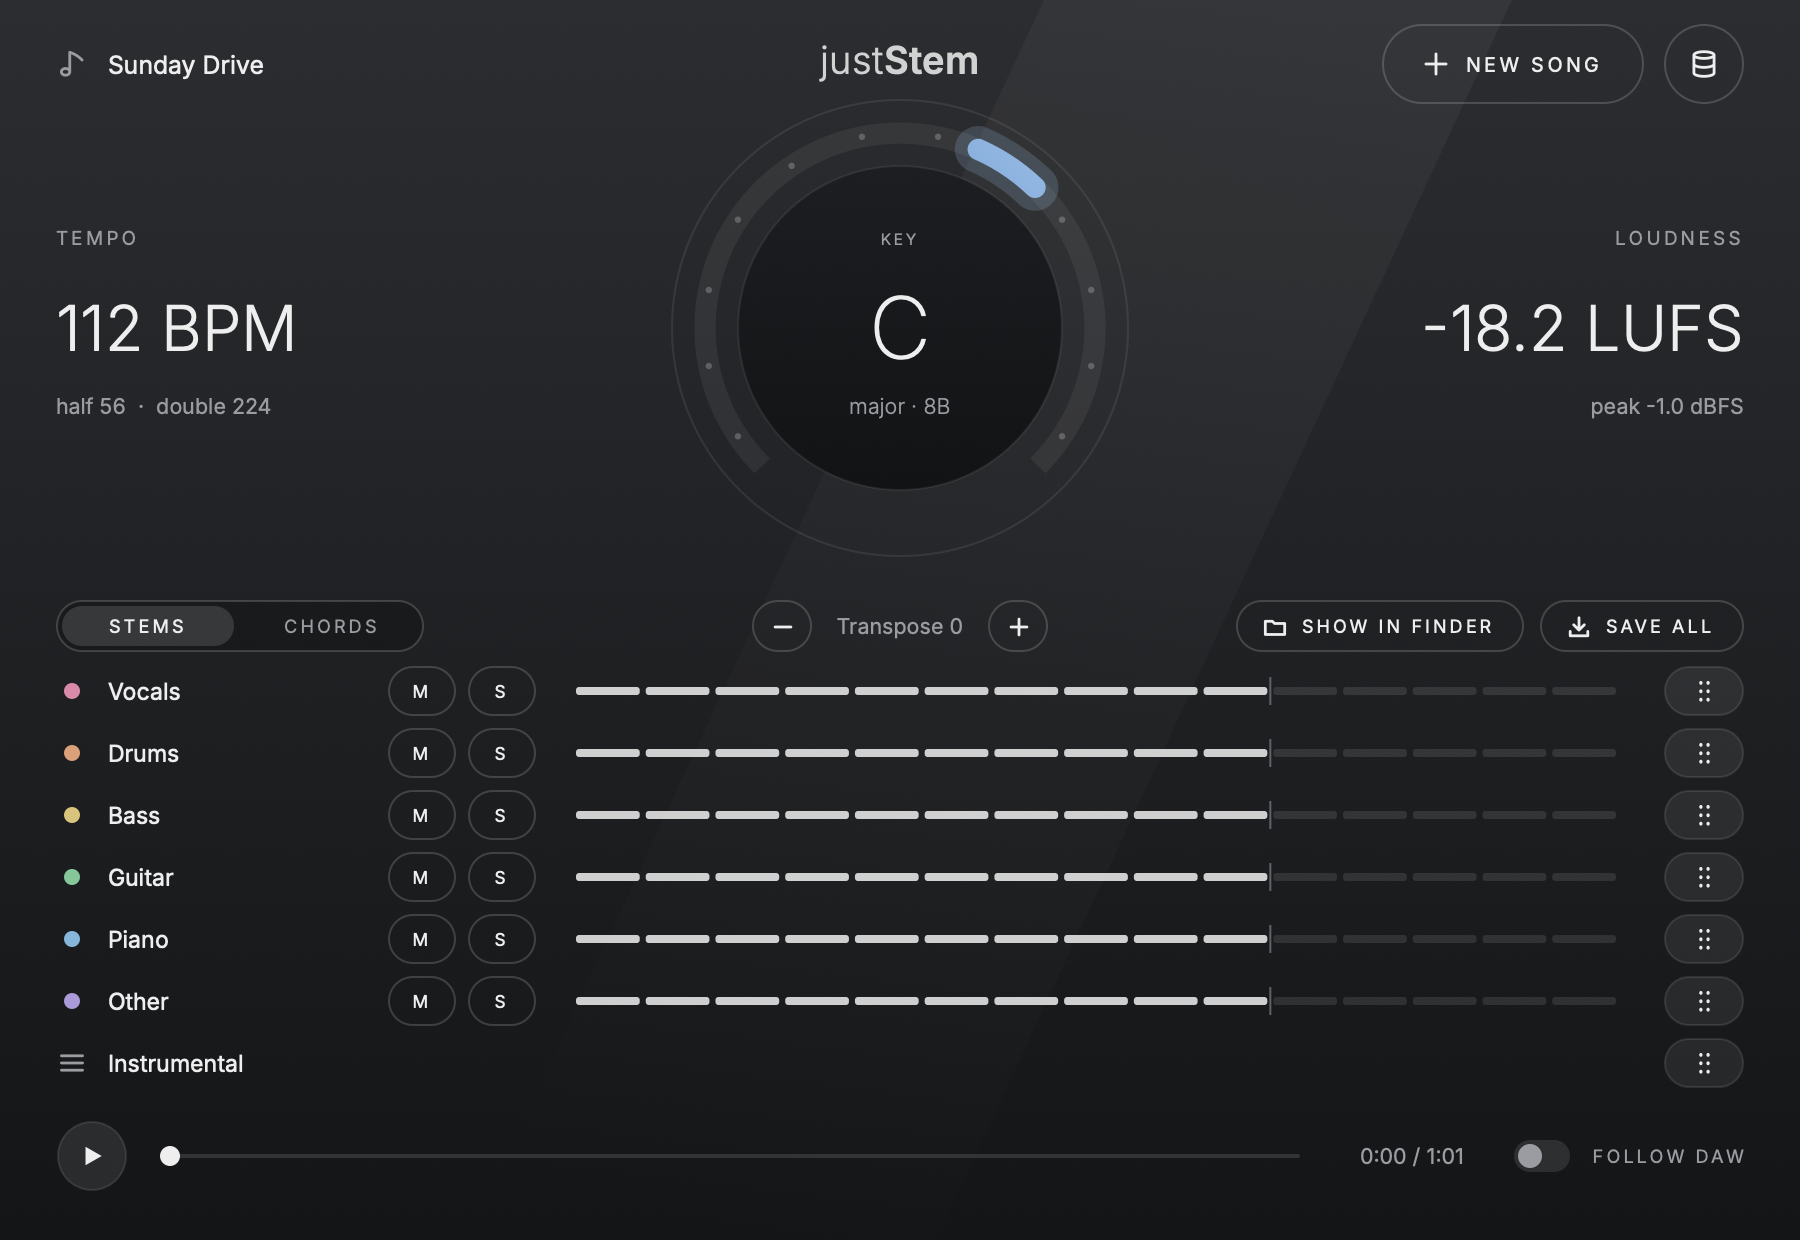
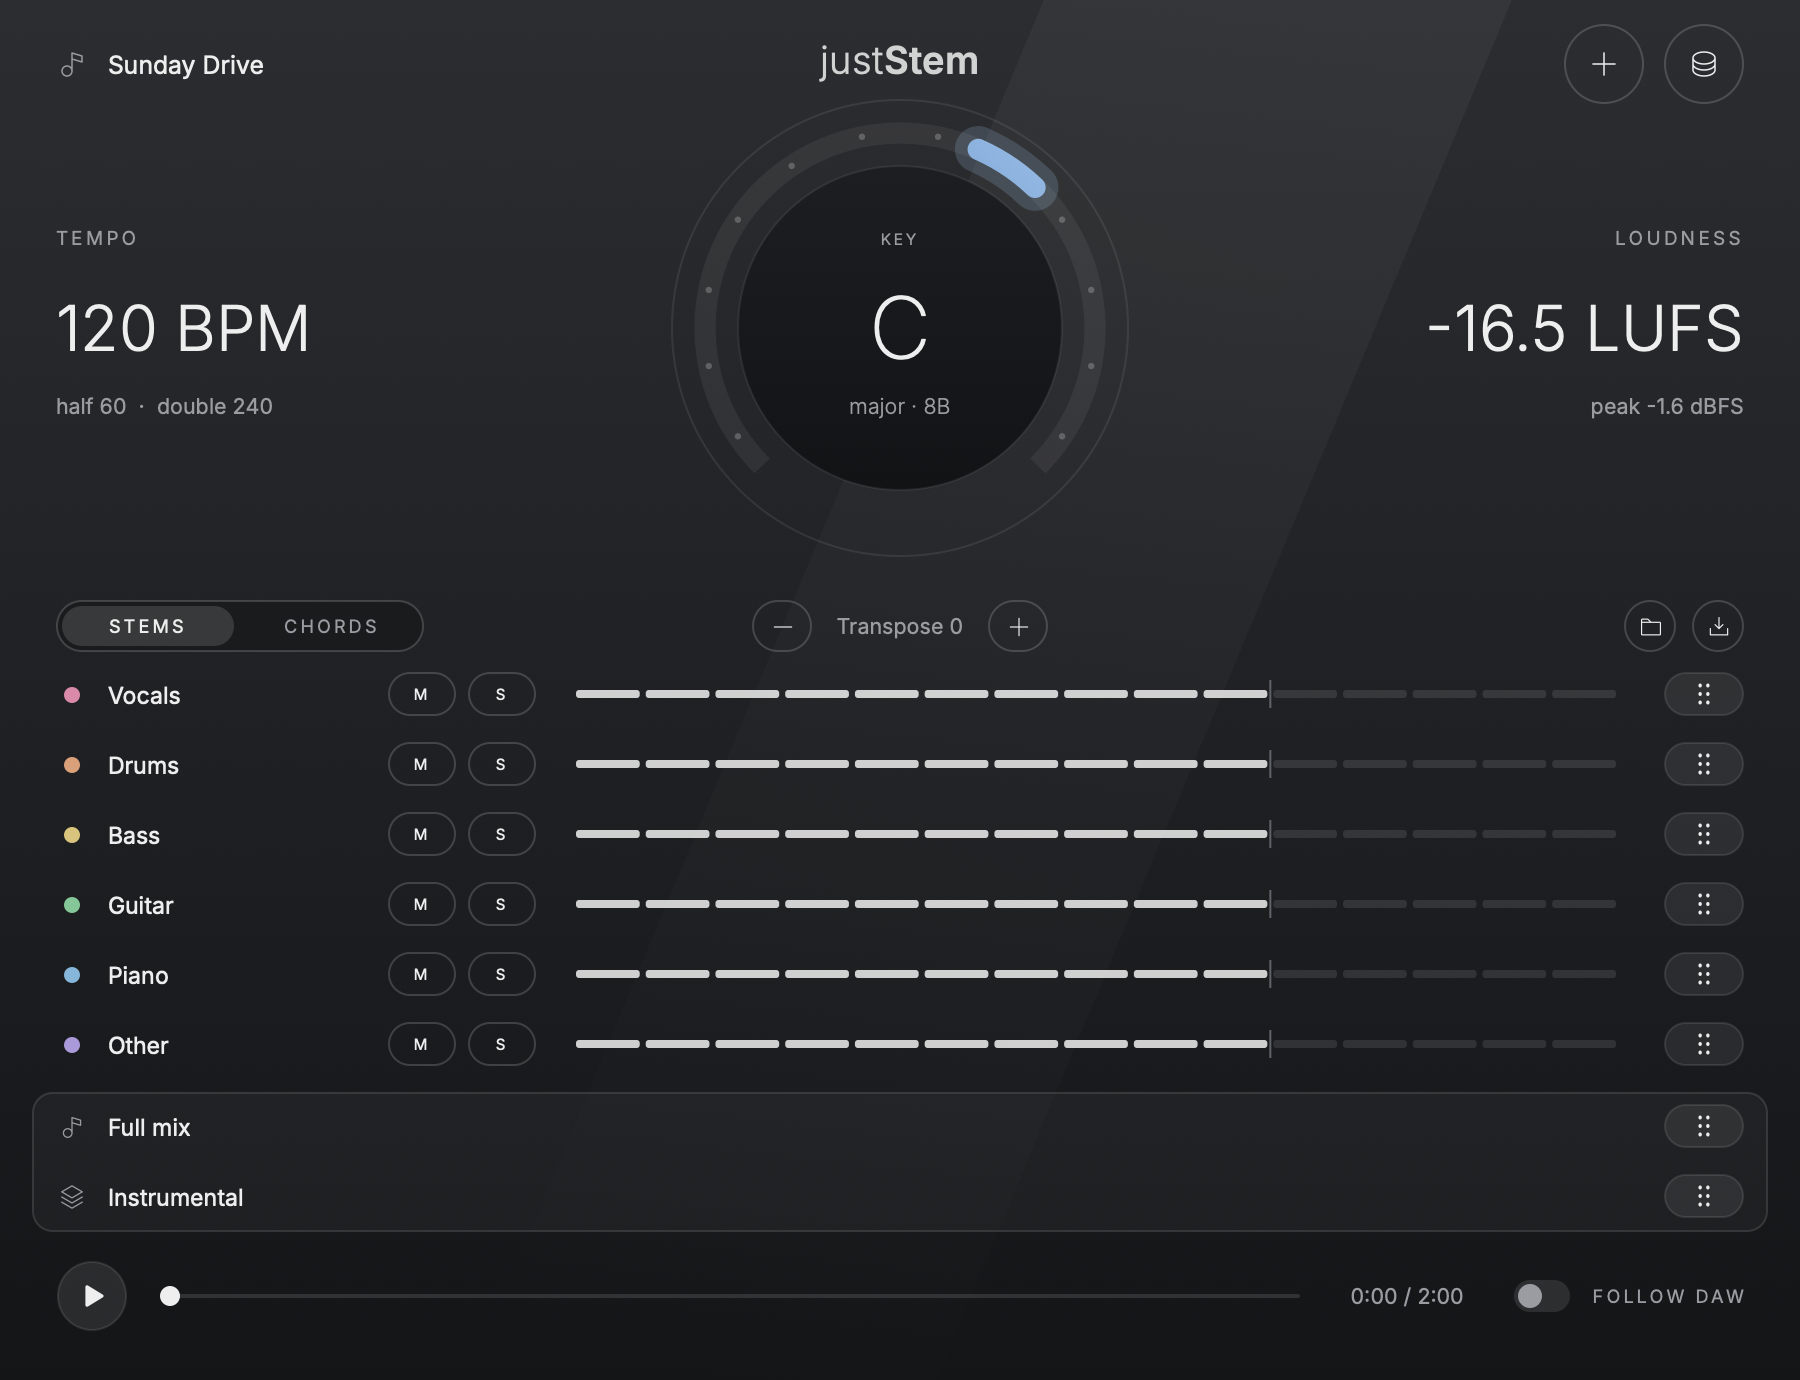
README: say what justStem is; new screenshots
The opening now describes the plug-in rather than who it's for. The screenshots
show the current window (taller, with Full mix, icon buttons and the version in
Storage), taken by juststem_uitest with a synthetic demo song.

diff --git a/README.md b/README.md
@@ -1,8 +1,9 @@
 # justStem
 
-A VST3 / AU plug-in for people who make covers. Give it a song (an audio file or a YouTube link)
-and it splits it into **vocals, drums, bass, guitar, piano and other**, and finds the **key, tempo,
-loudness and chords**. Everything runs on your computer.
+justStem is an open-source VST3 / AU plug-in (and standalone app) that splits a song into six stems,
+**vocals, drums, bass, guitar, piano and other**, plus an instrumental and the full mix, and finds its
+**key, tempo, loudness and chords**. Give it an audio file or a YouTube link; the AI runs on your
+computer, and nothing is uploaded.
 
 <p align="center"><img src="docs/screenshots/stems.png" width="600" alt="justStem with a song split into stems"></p>
 
